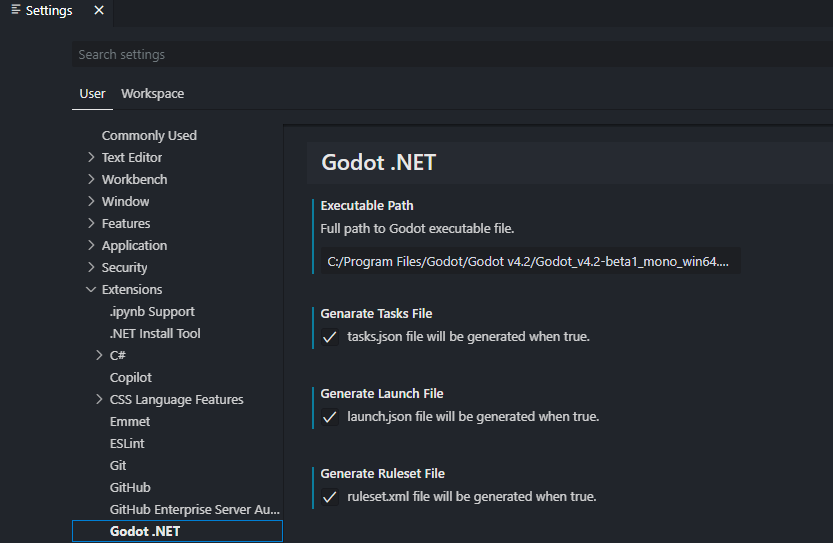
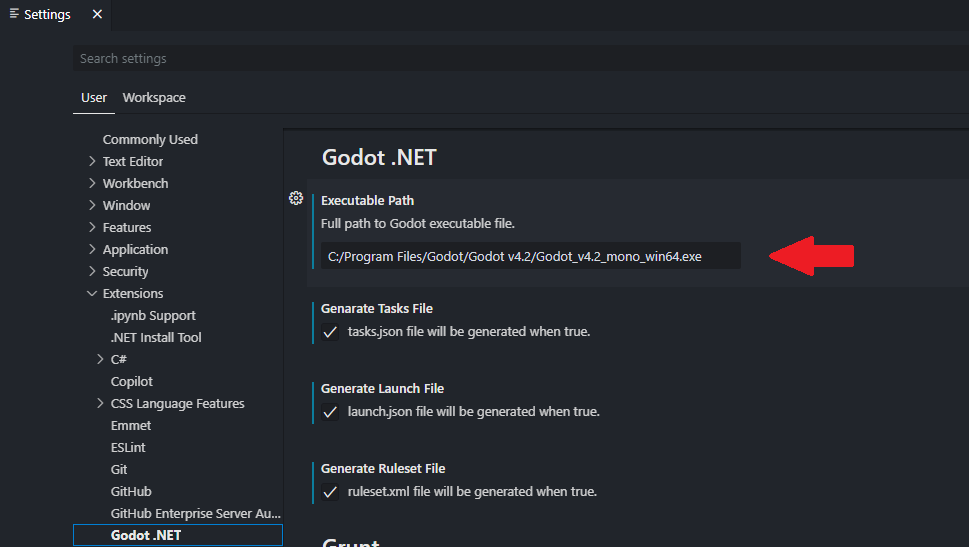
v0.4.0

diff --git a/src/fileProvider.js b/src/fileProvider.js
@@ -74,33 +74,9 @@ function addRuleset() {
     }
 }
 
-function modifyLaunchFile(path) {
-    try {
-        // Read the JSON file
-        const fileRead = fs.readFileSync(shared.launchPath, 'utf-8');
-        const launchFile = JSON.parse(fileRead);
-
-        // Update the program paths in the configurations array
-        if (launchFile && launchFile.configurations && launchFile.configurations.length >= 2) {
-            launchFile.configurations[0].program = path;
-            launchFile.configurations[1].program = path;
-
-            // Write the updated JSON string back to the file
-            fs.writeFileSync(shared.launchPath, JSON.stringify(launchFile, null, 2));
-
-            console.log('JSON file updated successfully.');
-        } else {
-            console.error('Invalid JSON file format or missing configurations.');
-        }
-    } catch (error) {
-        console.error('Error:', error.message);
-    }
-}
-
 module.exports = {
     addTasks,
     addLaunch,
     addRuleset,
-    addFolder,
-    modifyLaunchFile
+    addFolder
 }

diff --git a/src/commands.js b/src/commands.js
@@ -22,7 +22,6 @@ function generateFiles() {
 
     // Get configuration settings
     const configuration = vscode.workspace.getConfiguration('godot-dotnet-tools');
-    const executablePath = configuration.get('executablePath', "{EXECUTABLE PATH}");
     const generateTasksFile = configuration.get('generateTasksFile', true);
     const generateLaunchFile = configuration.get('generateLaunchFile', true);
     const generateRulesetFile = configuration.get('generateRulesetFile', true);
@@ -45,9 +44,6 @@ function generateFiles() {
 
     // Add launch file
     if (generateLaunchFile == true) {
-        // Modify exec path in launch file
-        fileProvider.modifyLaunchFile(executablePath);
-
         if (fileFinder.findFile('launch.json')) {
             vscode.window
                 .showInformationMessage("launch.json file already exists in current workspace, would you like to replace it?", "Yes", "No")

diff --git a/README.md b/README.md
@@ -36,39 +36,32 @@ Contains the necessary configurations to launch and debug your Godot application
 Contains a build task, using the dotnet CLI to build your project.
 
 ### ruleset.xml:
-Contains rules for the C# code analyzer. This is an optional file that was added due to the default C# rule (CA1050), which warns about encapsulating all classes inside namespaces. 
+Contains rules for the C# code analyzer. [More info](#optional)
 
-![namespace warning](/images/namespace.png)
-
-In a Godot project this might not necessarily be wanted, and is silenced by default in the added ruleset file.
-[More info](#optional)
 
 ## Configuration
 
-In the <strong>launch.json</strong> file there is some additional configuration needed. 
-
-You can set the path to your Godot executable in the configuration settings for the extension and the path will automatically be added to the <strong>launch.json</strong> file every time you generate your files.
+To be able to launch your project, you first need to set the path to your Godot executable in the   user settings. The settings can be found under <strong>Extensions/Godot .Net</strong>.
 
 ![settings](/images/settings.png)
 
-Alternatively, you can edit the setting in your <strong>settings.json</strong> file:
+Alternatively, you can set the executable path in your <strong>settings.json</strong> file:
 
 ![settings.json](/images/settingsjson.png)
 
-You can also edit the <strong>launch.json</strong> file manually every time you add it. You can do this by changing the <code>"program"</code> property value to the path of your Godot executable.
+## Optional
 
-Simply replace <code>{EXECUTABLE PATH}</code> with the path to your Godot executable.
-
-![launch.json](/images/launch.png)
-
-
-### Optional
-
-The <strong>ruleset.xml</strong> file contains one rule ID (CA1050). This rule warns about encapsulating all your classes inside namespaces and is silenced by default. This is optional of course and can be removed if so desired.
+The generated <strong>ruleset.xml</strong> file contains one rule ID: <code>(CA1050)</code>.
 
 ![ruleset](/images/ruleset.png)
 
-The ruleset is also added to the <strong>.csproj</strong> file and if the <strong>ruleset.xml</strong> file is removed, the <strong>.csproj</strong> file will need to be edited to resolve any issues related to omnisharp. 
+This rule warns about encapsulating all your classes inside namespaces. In a Godot project this might not necessarily be wanted, so the rule is silenced by default.
+
+![namespace warning](/images/namespace.png)
+
+For the ruleset to work, it is also added to the <strong>.csproj</strong> file.
+
+The <strong>ruleset.xml</strong> file is of course not necessary and can be deleted if it's not wanted, but if it is, the <strong>.csproj</strong> file will need to be edited to resolve any issues related to omnisharp. 
 
 Simply remove the line shown below.
 
@@ -79,7 +72,7 @@ If the <strong>ruleset.xml</strong> is not desired at all, there is a configurat
 
 ## Launching and debugging
 
-Open the debug view in your VSCode workspace and there should be 3 options available. 
+Open the debug view in your VSCode workspace and there should now be 3 options available. 
 
 - <strong>"Launch"</strong> 
 - <strong>"Launch Editor"</strong> 
@@ -104,6 +97,6 @@ There are 4 available configuration settings for the extension which enable you 
 
 - <code>"godot-dotnet-tools.generateRulesetFile"</code>
 
-These configurations are available in the settings under the <strong>extensions/Godot .NET tab.</strong>
+These configurations are available in the user settings under <strong>Extensions/Godot .NET.</strong>
 
-You can also add them in your <strong>settings.json</strong> file.
+You can also add and edit them in your <strong>settings.json</strong> file.

diff --git a/CHANGELOG.md b/CHANGELOG.md
@@ -3,6 +3,10 @@
 ### In progress
 - Launch specific scene
 
+## 0.4.0
+### Added
+- launch.json file now get executable path from extension settings
+
 ## 0.3.0
 ### Added
 - Configuration setting for specifying executable path
